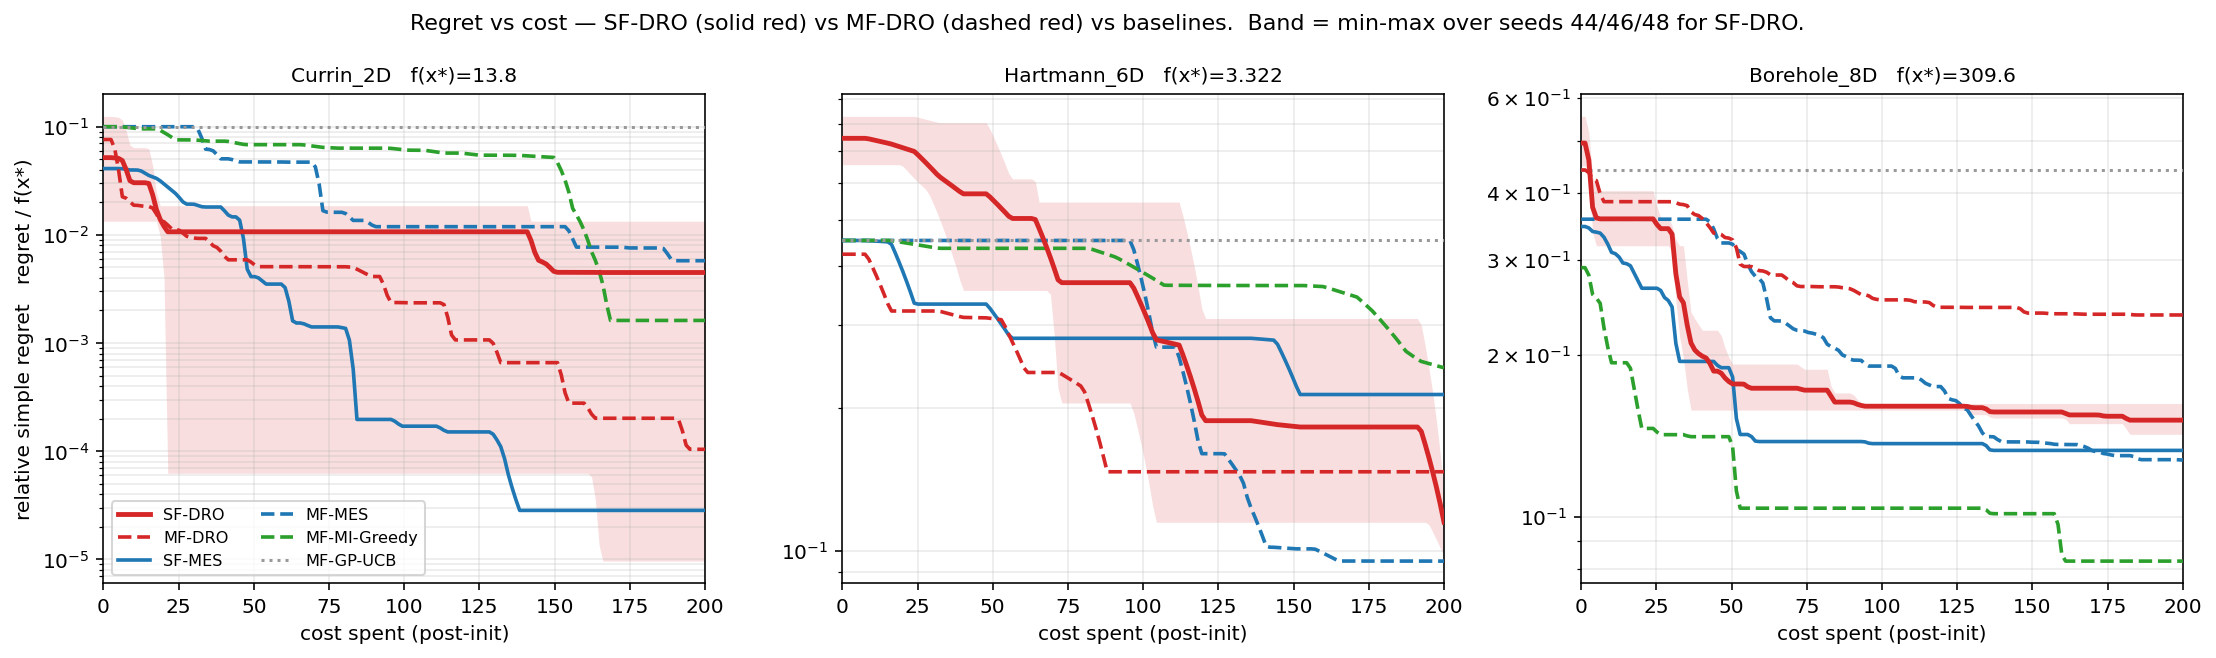
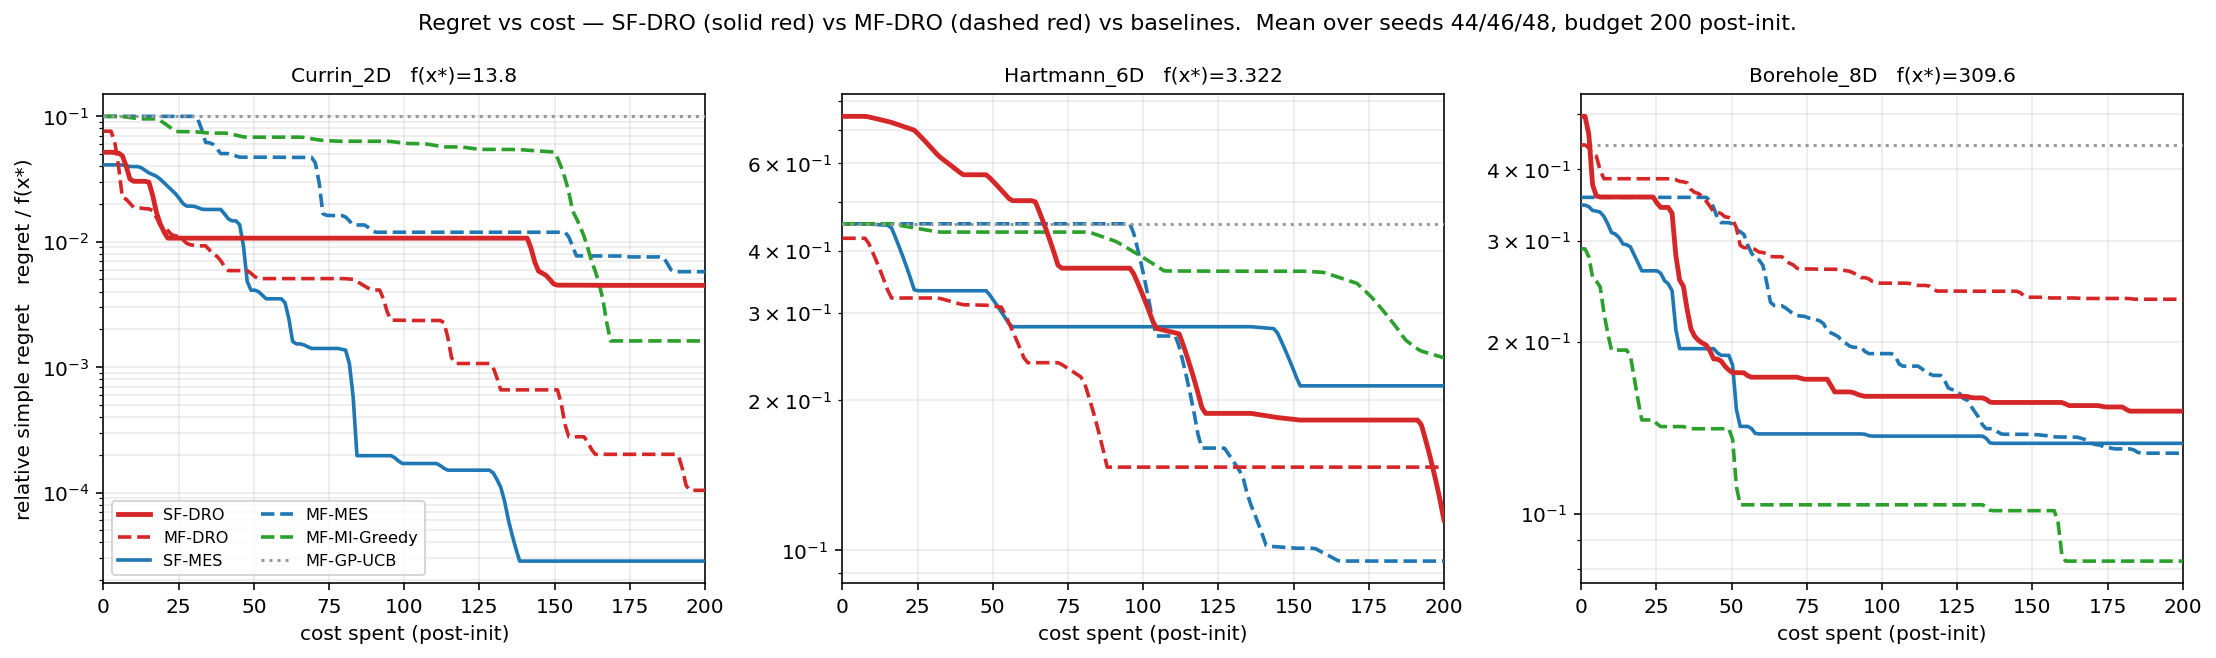
research(results): drop the min-max band from the regret-vs-cost plot (user request)
Mean curves only. The seed spread is reported numerically in findings.md
(SF-DRO Currin mean 0.0619 vs median 0.0012) rather than shaded on the figure.

diff --git a/src/analysis/plot_regret_vs_cost.py b/src/analysis/plot_regret_vs_cost.py
@@ -51,16 +51,15 @@ def plot(out=os.path.join(REPO, "to_human", "regret_vs_cost_all.png")):
             cs = _curves(b, me)
             if not cs: continue
             M = np.array([np.interp(grid, c, r, left=r[0], right=r[-1]) for c, r in cs]) / fstar
-            a.plot(grid, M.mean(0), color=col, ls=ls, lw=lw, label=me, zorder=4 if me.endswith("DRO") else 3)
-            if me == "SF-DRO":
-                a.fill_between(grid, M.min(0), M.max(0), color=col, alpha=.15, lw=0, zorder=1)
+            a.plot(grid, M.mean(0), color=col, ls=ls, lw=lw, label=me,
+                   zorder=4 if me.endswith("DRO") else 3)
         a.set_yscale("log"); a.set_xlim(0, 200); a.grid(alpha=.25, which="both")
         a.set_xlabel("cost spent (post-init)")
         a.set_title(f"{b}   f(x*)={fstar:.4g}", fontsize=10)
         if j == 0: a.set_ylabel("relative simple regret   regret / f(x*)")
     ax[0].legend(fontsize=8, loc="lower left", ncol=2)
     fig.suptitle("Regret vs cost — SF-DRO (solid red) vs MF-DRO (dashed red) vs baselines.  "
-                 "Band = min-max over seeds 44/46/48 for SF-DRO.", fontsize=11)
+                 "Mean over seeds 44/46/48, budget 200 post-init.", fontsize=11)
     fig.tight_layout()
     os.makedirs(os.path.dirname(out), exist_ok=True)
     fig.savefig(out, dpi=145, bbox_inches="tight")
